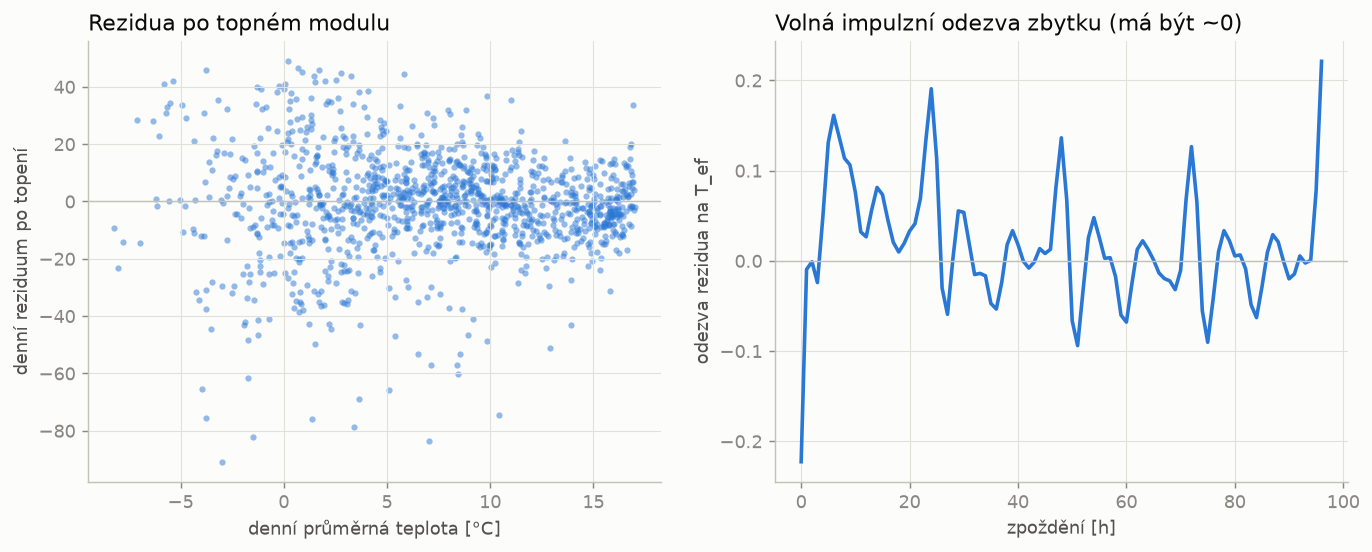
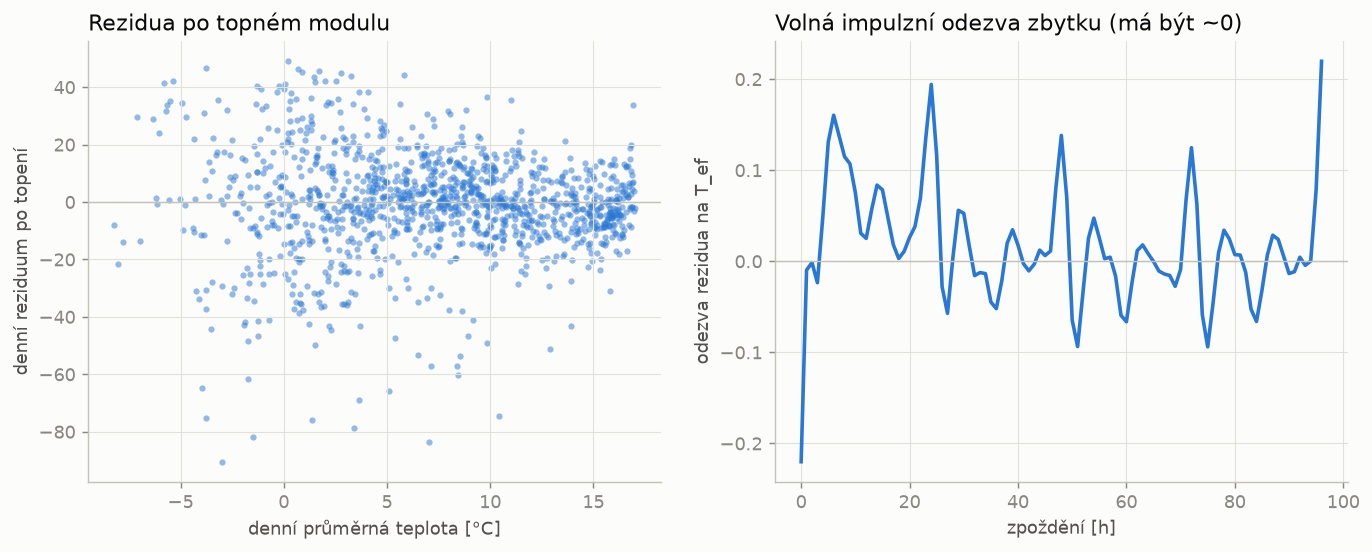
Vlastni denni tvar topeni a chlazeni pro volne dny (krok 28)
- heating.k_basis, cooling.k_basis: Fourierova odchylka tvaru pro volne dny
  (typ dne 2, 3; 4 harmonicke) — o vikendu se ranni nabeh posouva (reziduum
  volnych dni v topne sezone -12 az -16 v 7-9 h, +9 v 11-12 h)
- backtest: 13,85 -> 13,41 / MAPE 1,58 %, s korekci 12,42 -> 11,94 / 1,381 %;
  s predpovedi pocasi s korekci 17,25 -> 16,93 / 1,868 %
- korekce podle tridy dne zkousena, po oprave v modelu bez prinosu
- prepocet parametru a grafu, dokumentace v NAVRH_MODELU.md

diff --git a/src/heating.py b/src/heating.py
@@ -10,7 +10,10 @@ Fituje se na reziduich po odectu baze (y - B) v chladnem a mirnem obdobi:
 - topna krivka:      g(T*) = s * ln(1 + exp((T_b - T*)/s))   (hladky hinge)
 - COP na okamzitou teplotu (vyparnik venku): COP(T) = max(1 + alpha*T, 0.2),
   normalizace COP(0) = 1 — absolutni skala je v k
-- k(cas dne, typ dne) = Fourier (K_TOD harmonickych) + offsety typu dne;
+- k(cas dne, typ dne) = Fourier (K_TOD harmonickych) + offsety typu dne +
+  vlastni Fourierova odchylka pro volne dny (K_TOD_OFF harmonickych): o
+  vikendu a svatku se ranni nabeh topeni posouva (se spolecnym tvarem bylo
+  reziduum volnych dni v topne sezone -12 az -16 v 7-9 h a +9 v 11-12 h);
   pro dane nelinearni parametry je model linearni v k -> separabilni LS
   (vnejsi nelinearni optimalizace jen pres 7 parametru)
 - casova zmena citlivosti: k(cas dne, typ dne) + dk(t), kde dk(t) je
@@ -36,6 +39,7 @@ from scipy.optimize import least_squares
 import pv
 
 K_TOD = 4        # harmonickych v k(cas dne)
+K_TOD_OFF = 4    # harmonickych v odchylce k pro volne dny (typ dne 2, 3)
 TREND_K_TOD = 2  # harmonickych v dennim tvaru prirustku citlivosti
 T_IN = 20.0      # vnitrni teplota pro vetrny clen [C]
 COP_FLOOR = 0.2
@@ -74,12 +78,16 @@ def t_star(df: pd.DataFrame, a: float, b: float, w: float, tau: float) -> np.nda
 
 
 def k_basis(df: pd.DataFrame) -> np.ndarray:
-    """[1, cos/sin harmonicky, dummy dt1..dt3] — sdileny tvar, offsety typu dne."""
+    """[1, cos/sin harmonicky, dummy dt1..dt3, cos/sin * volny den] — sdileny
+    tvar, offsety typu dne a odchylka tvaru pro volne dny."""
     tod = df["tod"].to_numpy()
     wv = 2 * np.pi * np.outer(tod, np.arange(1, K_TOD + 1)) / 24.0
-    dt = df["daytype"].to_numpy()
+    dt = np.broadcast_to(np.asarray(df["daytype"]), tod.shape)
     dums = np.stack([(dt == k).astype(float) for k in range(1, N_DAYTYPES)], axis=1)
-    return np.hstack([np.ones((len(df), 1)), np.cos(wv), np.sin(wv), dums])
+    off = (dt >= 2).astype(float)[:, None]
+    wo = wv[:, :K_TOD_OFF]
+    return np.hstack([np.ones((len(df), 1)), np.cos(wv), np.sin(wv), dums,
+                      np.cos(wo) * off, np.sin(wo) * off])
 
 
 def shape_term(df: pd.DataFrame, theta: np.ndarray) -> np.ndarray:

diff --git a/src/cooling.py b/src/cooling.py
@@ -24,6 +24,7 @@ from etl import step_hours
 from heating import softplus
 
 K_TOD = 4          # harmonickych v k_c(cas dne)
+K_TOD_OFF = 4      # harmonickych v odchylce k_c pro volne dny (jako u topeni)
 N_DAYTYPES = 4
 T_REF = 25.0
 EER_FLOOR = 0.3
@@ -46,12 +47,17 @@ def t_star(df: pd.DataFrame, a_c: float, w_c: float, tau_c: float) -> np.ndarray
 
 
 def k_basis(df: pd.DataFrame) -> np.ndarray:
-    """[1, cos/sin harmonicky, dummy dt1..dt3] — sdileny tvar, offsety typu dne."""
+    """[1, cos/sin harmonicky, dummy dt1..dt3, cos/sin * volny den] — sdileny
+    tvar, offsety typu dne a odchylka tvaru pro volne dny (o vikendu se rano
+    chladi jinak: se spolecnym tvarem reziduum volnych dni +16 v 6-8 h)."""
     tod = df["tod"].to_numpy()
     wv = 2 * np.pi * np.outer(tod, np.arange(1, K_TOD + 1)) / 24.0
-    dt = df["daytype"].to_numpy()
+    dt = np.broadcast_to(np.asarray(df["daytype"]), tod.shape)
     dums = np.stack([(dt == k).astype(float) for k in range(1, N_DAYTYPES)], axis=1)
-    return np.hstack([np.ones((len(df), 1)), np.cos(wv), np.sin(wv), dums])
+    off = (dt >= 2).astype(float)[:, None]
+    wo = wv[:, :K_TOD_OFF]
+    return np.hstack([np.ones((len(df), 1)), np.cos(wv), np.sin(wv), dums,
+                      np.cos(wo) * off, np.sin(wo) * off])
 
 
 def shape_term(df: pd.DataFrame, theta: np.ndarray) -> np.ndarray:

diff --git a/NAVRH_MODELU.md b/NAVRH_MODELU.md
@@ -476,3 +476,22 @@ Plný fit na 15min datech (uložené parametry, `models/*_joint.npz`): RMSE 13,0
 Po měsících (model): červenec 22,0 → 18,2, srpen 21,2 → 16,1, květen 17,6 → 14,2; bias červenec −10,7 → −3,5, srpen −12,0 → −2,7. Samotný osvit s teplotou zhoršil leden a únor (bias −3,6 → −8,6): nadhodnocený zimní osvit dřív náhodou kompenzoval nadhodnocený vítr; s opravou větru je zimní bias stejný jako se skutečným počasím (leden −3,8 vs −3,7). Červen se zhoršil (14,3 → 17,3) — bias +8 odpovídá běhu se skutečným počasím (+5,6), dřív ho kryla chyba předpovědi.
 
 Rozdíl proti běhu se skutečným počasím (12,42) zůstává 4,8 RMSE: po složkách topení 7,1, chlazení 4,8, FVE 4,7, báze (šero) 3,2 (v zimě v poledne šero z předpovědi v průměru o 3–4 jednotky nižší než skutečné) — převážně náhodná chyba předpovědi, kterou kalibrace neodstraní; další zlepšení už jen lepším vstupem (osvit přímo z numerického modelu, víc zdrojů předpovědi).
+
+### 2026-10-02 — vlastní denní tvar topení a chlazení pro volné dny (krok 28)
+
+**Diagnostika** (rezidua plného fitu po hodinách, typu dne a režimu): denní tvar topné citlivosti k(čas dne) i chladicí k_c byl společný pro všechny typy dnů (typ dne jen posouval úroveň). O víkendech a svátcích se ale ranní náběh posouvá: v topných dnech (topná složka > 100) reziduum volných dnů **−12 až −16 v 7–9 h a +9 v 11–12 h**, pracovní dny naopak +8 v 7–8 h (společný tvar byl kompromis); u chlazení zrcadlově — volné dny +16 až +17 v 6–8 h a −7 až −9 v 11–12 h, pracovní −12 v 7 h. Sobota a neděle se chovají stejně. Proto byly víkendy v backtestu horší (sobota 13,5, neděle 14,4 proti pátku 10,6).
+
+**Úprava** (`src/heating.py`, `src/cooling.py`): k i k_c dostaly Fourierovu odchylku pro volné dny (typ dne 2 a 3; 4 harmonické, +8 parametrů v každém členu, lineární krok fitu).
+
+| backtest | RMSE | MAPE | + korekce | + korekce MAPE |
+|---|---|---|---|---|
+| v9 šero přes den | 13,85 | 1,63 % | 12,42 | 1,438 % |
+| **v10 tvar topení/chlazení pro volné dny** | **13,41** | **1,58 %** | **11,94** | **1,381 %** |
+| realisticky (předpověď počasí) v9 + krok 27 | 18,27 | 2,04 % | 17,25 | 1,909 % |
+| **realisticky v10** | **17,95** | **2,00 %** | **16,93** | **1,868 %** |
+
+Hodinový fit celého řetězce 12,22 → 11,77. Leden 12,8 → 11,6 (s korekcí), červenec 13,8 → 12,8, listopad 12,7 → 11,9.
+
+**Korekční vrstva — tvar chyby podle třídy dne** (zkoušeno, nezavedeno): tvar chyby x3 počítaný zvlášť z posledních pracovních a zvlášť z posledních volných dnů dával na v9 12,42 → 12,20; po opravě v modelu už nic (11,94 beze změny vs 12,03, realisticky 16,93 vs 17,00). Chyba byla strukturální, ne drift — korekce zůstává beze změny. Nepomohl ani pomalý bias (průměr chyby posledních 7 dní) a chyba stejného dne minulého týdne.
+
+Plný fit na 15min datech: RMSE 12,71 → **12,26**.
